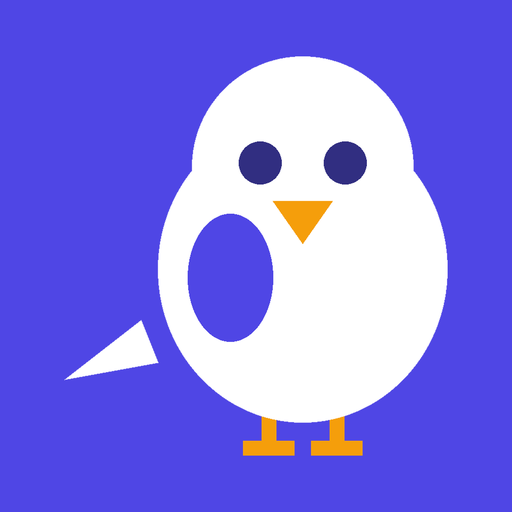
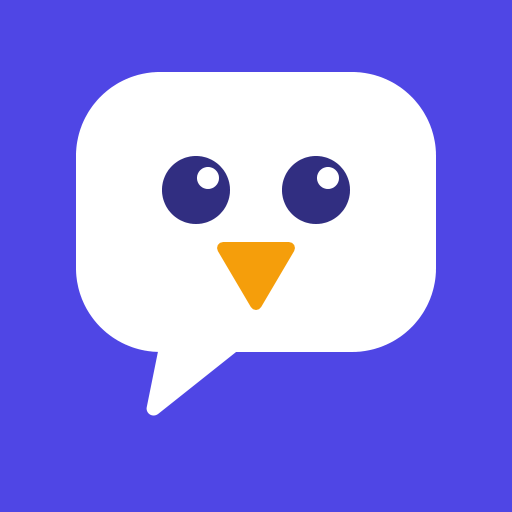
icono nuevo: la cara de Milo dentro de un bocadillo
El anterior era el pajaro entero sobre morado, y entero no cabe: a 48
px, que es lo que mide de verdad en la pantalla de inicio, se veia una
mancha blanca descentrada con un ala saliendose del marco y los pies
cortados por el borde.

Ahora es una sola silueta que dice las dos cosas que es la app, un
personaje y hablar: el bocadillo ES la cara. Dos ojos con brillo y el
pico ambar de la casa, y nada mas; las cejas, el moteado y las alas a
ese tamaño no son detalle, son suciedad.

A sangre y sin esquinas redondeadas, que ya las pone cada sistema a su
manera, y todo dentro del circulo central para que el recorte de Android
no se lleve nada.

El original es el SVG; los PNG salen de el con scripts/generar-iconos.py
y una prueba comprueba que no se separen.

Changed region(s): [[0.125, 0.0938, 0.875, 0.9062]]

diff --git a/src/iconos-de-la-app.test.ts b/src/iconos-de-la-app.test.ts
@@ -1,0 +1,87 @@
+import { readFileSync } from 'node:fs';
+import path from 'node:path';
+import { describe, expect, it } from 'vitest';
+
+/**
+ * El icono que acaba en la pantalla de inicio del teléfono.
+ *
+ * Son cinco archivos que tienen que decir lo mismo y viven en cuatro sitios
+ * distintos: el SVG original, los PNG que se generan de él, el `<link>` de
+ * `index.html` y el manifest de `vite.config.ts`. Nada obliga a que coincidan, y
+ * cuando no coinciden no se rompe nada: sencillamente el teléfono enseña el
+ * icono viejo, o enseña una franja de otro color alrededor. Eso no se ve en
+ * local —ahí el icono lo pone el navegador desde el SVG— y se descubre después
+ * de instalarla.
+ *
+ * Por eso esto no mira si el dibujo es bonito, que no se puede medir, sino las
+ * tres cosas que se desparejan solas:
+ *
+ *   · que exista el archivo que cada sitio promete;
+ *   · que mida lo que dice medir;
+ *   · que el color del fondo del dibujo sea el mismo que el `theme_color`, que
+ *     es el que pinta la barra de estado y la pantalla de arranque. Si no lo
+ *     es, al abrirla aparece un marco de otro tono alrededor del icono.
+ */
+
+const raiz = path.resolve(import.meta.dirname, '..');
+const leer = (relativo: string) => readFileSync(path.join(raiz, relativo), 'utf8');
+
+const svg = leer('public/favicon.svg');
+const html = leer('index.html');
+const vite = leer('vite.config.ts');
+
+/** El lado de un PNG sale de su cabecera, sin descomprimir nada. */
+function ladoDe(relativo: string): { ancho: number; alto: number } {
+  const bytes = readFileSync(path.join(raiz, relativo));
+  return { ancho: bytes.readUInt32BE(16), alto: bytes.readUInt32BE(20) };
+}
+
+/** El color de fondo que declara el propio dibujo. */
+function fondoDelSvg(): string {
+  const encontrado = /<rect[^>]*fill="(#[0-9a-fA-F]{6})"/.exec(svg);
+  return (encontrado?.[1] ?? '').toLowerCase();
+}
+
+describe('el icono de la aplicación', () => {
+  it('cada PNG mide lo que su nombre y el manifest prometen', () => {
+    const esperados = [
+      { archivo: 'public/icon-192.png', lado: 192 },
+      { archivo: 'public/icon-512.png', lado: 512 },
+      { archivo: 'public/icon-maskable-512.png', lado: 512 },
+      { archivo: 'public/apple-touch-icon.png', lado: 180 },
+    ];
+
+    for (const { archivo, lado } of esperados) {
+      const medido = ladoDe(archivo);
+      expect(medido, `${archivo} no es cuadrado`).toEqual({ ancho: lado, alto: lado });
+    }
+  });
+
+  it('el manifest y el html solo prometen archivos que existen', () => {
+    const prometidos = [
+      ...vite.matchAll(/src: '\/([\w.-]+\.png)'/g),
+      ...html.matchAll(/href="\/([\w.-]+\.(?:png|svg))"/g),
+    ].map((coincidencia) => coincidencia[1]!);
+
+    // Que haya algo que comprobar: si un día cambia la forma de escribirlo, esta
+    // prueba se quedaría pasando sin mirar nada.
+    expect(prometidos.length).toBeGreaterThanOrEqual(4);
+
+    for (const archivo of prometidos) {
+      expect(() => leer(`public/${archivo}`), `${archivo} se promete y no está`).not.toThrow();
+    }
+  });
+
+  it('el fondo del dibujo es el mismo color que la barra de estado', () => {
+    const fondo = fondoDelSvg();
+    expect(fondo, 'el SVG no declara un fondo liso').toMatch(/^#[0-9a-f]{6}$/);
+
+    const delHtml = /<meta name="theme-color" content="(#[0-9a-fA-F]{6})"/.exec(html)?.[1];
+    const delManifest = /theme_color: '(#[0-9a-fA-F]{6})'/.exec(vite)?.[1];
+
+    expect(delHtml?.toLowerCase(), 'el theme-color del html no es el del icono').toBe(fondo);
+    expect(delManifest?.toLowerCase(), 'el theme_color del manifest no es el del icono').toBe(
+      fondo,
+    );
+  });
+});

diff --git a/scripts/generar-iconos.py b/scripts/generar-iconos.py
@@ -1,0 +1,75 @@
+"""
+Saca los PNG del icono a partir de `public/favicon.svg`.
+
+El original es el SVG y solo el SVG. Estos PNG existen porque ni iOS ni el
+manifest de Android aceptan vectorial para el icono de la pantalla de inicio,
+pero son una copia: si alguien retoca un ojo aquí y no allí, el icono de la
+pestaña y el del teléfono dejan de ser el mismo dibujo, y eso no se nota hasta
+que ya está publicado.
+
+    python scripts/generar-iconos.py
+
+
+EL MASKABLE, QUE ES EL QUE TIENE TRAMPA
+
+Android no respeta la forma del icono: lo recorta con la que quiera el
+fabricante —círculo, cuadrado blando, gota— y cada capa lo hace distinto. Por
+eso el manifest declara una versión aparte con el dibujo más pequeño: todo lo
+que importa tiene que caber en el círculo central, que es el 80 % del lado.
+
+Aquí se consigue encogiendo la imagen ya montada en vez de volver a dibujarla
+más pequeña. Vale porque el fondo es de un color liso: pegar la versión
+reducida sobre ese mismo color no deja ninguna costura, y así no hay un segundo
+trazado del bocadillo que mantener al día.
+"""
+
+import io
+import os
+import re
+import sys
+
+import pymupdf
+from PIL import Image
+
+AQUI = os.path.dirname(os.path.abspath(__file__))
+PUBLICO = os.path.join(os.path.dirname(AQUI), 'public')
+ORIGEN = os.path.join(PUBLICO, 'favicon.svg')
+
+# Lo que ocupa el dibujo dentro del maskable. Android garantiza el círculo
+# central del 80 %; 78 deja un pelo de aire para que el borde no bese el corte.
+PARTE_SEGURA = 0.78
+
+
+def dibujo(lado: int) -> Image.Image:
+    """El SVG rasterizado a `lado` píxeles."""
+    svg = open(ORIGEN, encoding='utf8').read()
+    documento = pymupdf.open(stream=svg.encode(), filetype='svg')
+    escala = lado / 512
+    pagina = documento[0].get_pixmap(matrix=pymupdf.Matrix(escala, escala), alpha=False)
+    return Image.open(io.BytesIO(pagina.tobytes('png'))).convert('RGB')
+
+
+def color_de_fondo() -> str:
+    """El fondo que declara el propio SVG, para no escribirlo dos veces."""
+    encontrado = re.search(r'<rect[^>]*fill="(#[0-9a-fA-F]{6})"', open(ORIGEN, encoding='utf8').read())
+    if not encontrado:
+        print('no se encontró el color de fondo en el SVG', file=sys.stderr)
+        raise SystemExit(1)
+    return encontrado.group(1)
+
+
+def main() -> None:
+    for nombre, lado in [('icon-192.png', 192), ('icon-512.png', 512), ('apple-touch-icon.png', 180)]:
+        dibujo(lado).save(os.path.join(PUBLICO, nombre))
+        print(f'  {nombre:<24} {lado}x{lado}')
+
+    grande = dibujo(512)
+    dentro = round(512 * PARTE_SEGURA)
+    lienzo = Image.new('RGB', (512, 512), color_de_fondo())
+    hueco = (512 - dentro) // 2
+    lienzo.paste(grande.resize((dentro, dentro), Image.LANCZOS), (hueco, hueco))
+    lienzo.save(os.path.join(PUBLICO, 'icon-maskable-512.png'))
+    print(f'  icon-maskable-512.png    512x512 (dibujo al {round(PARTE_SEGURA * 100)} %)')
+
+
+main()
